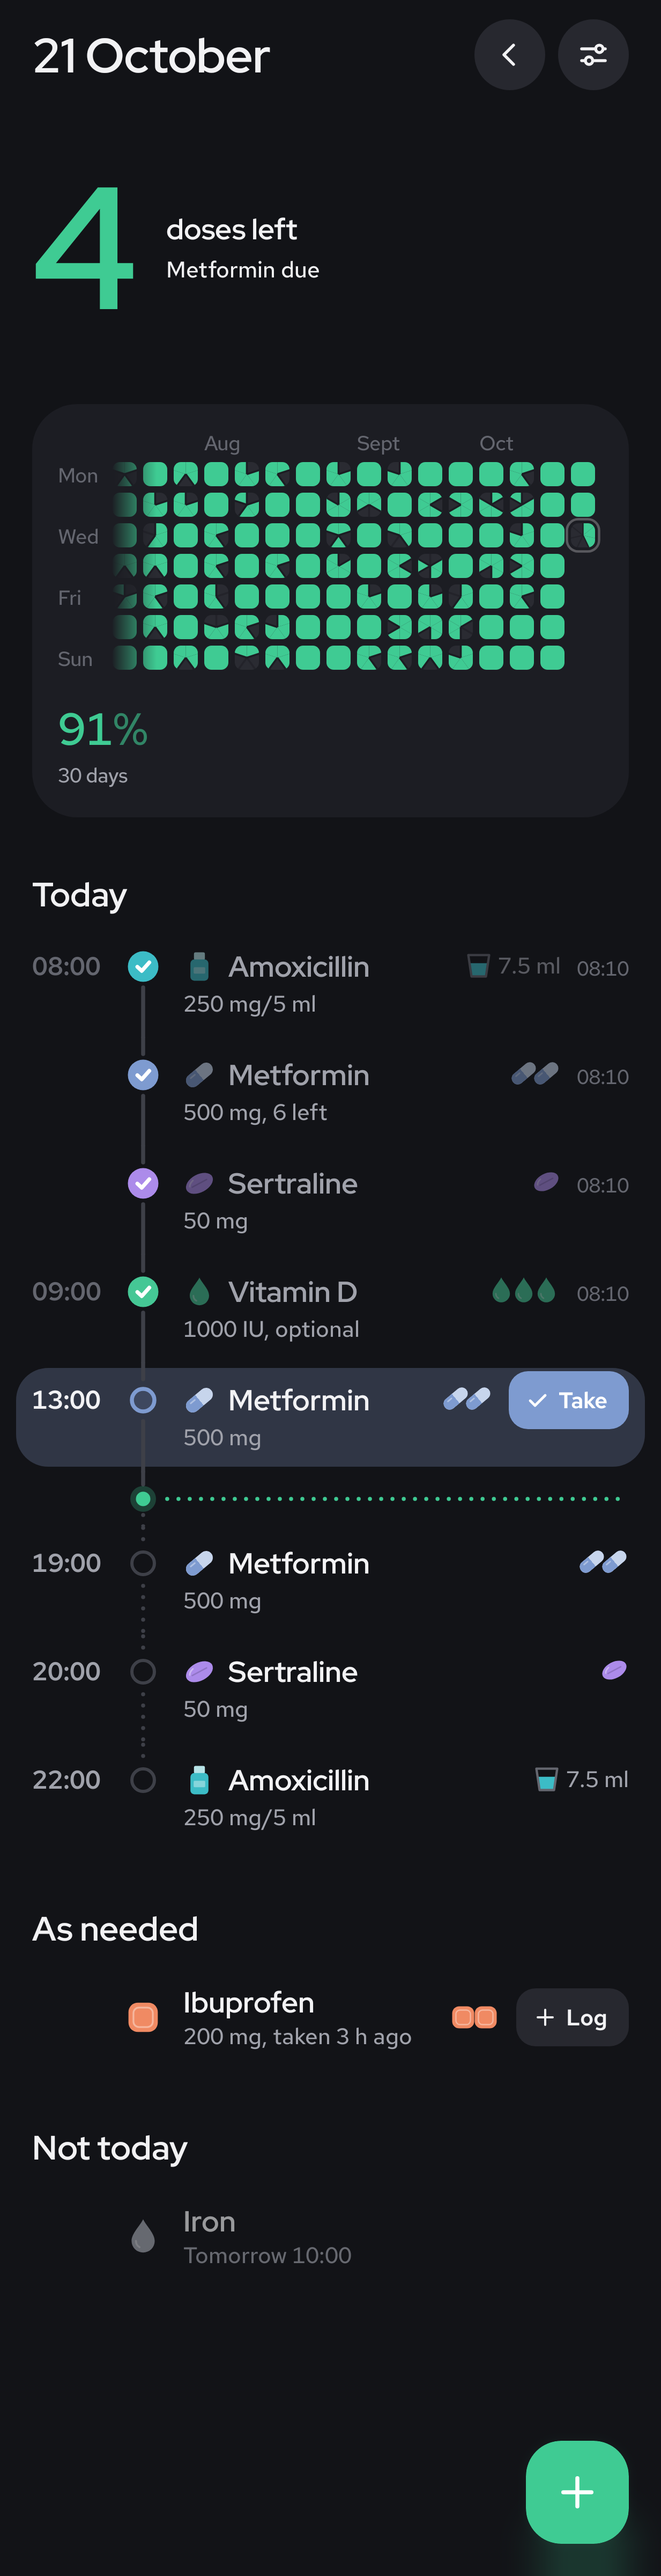
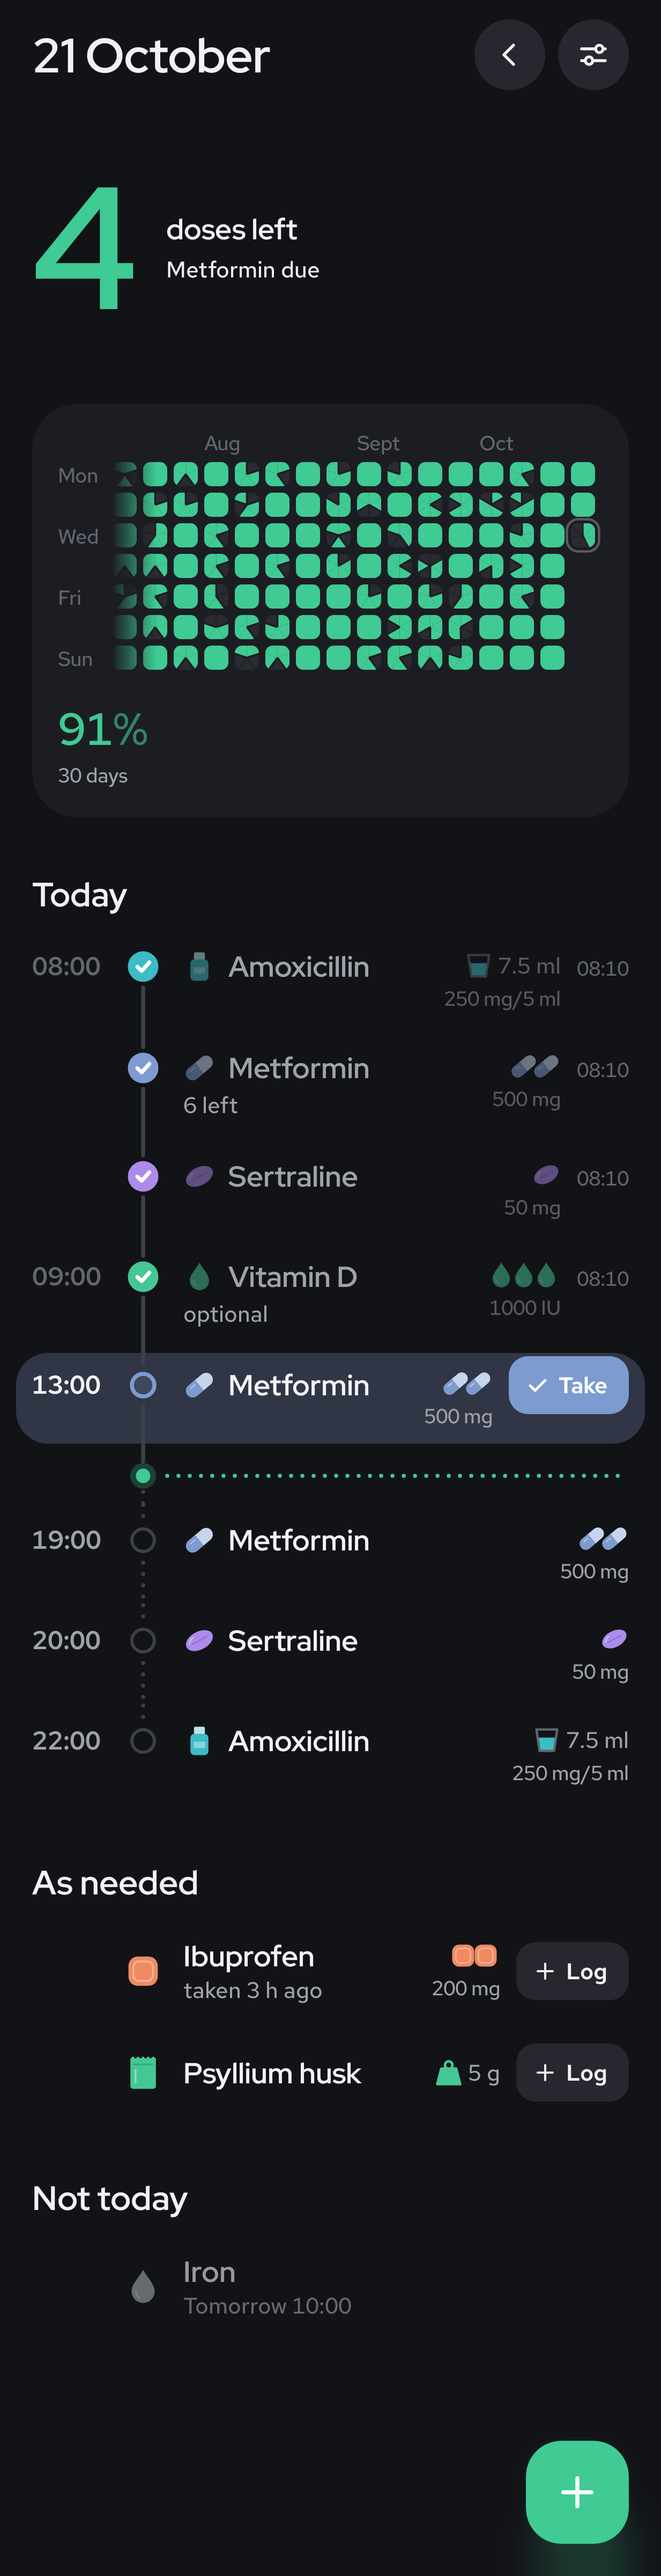
Move the strength to the right of the row; add a g unit
Nothing about the dose sits under the name any more: the strength now
goes under the dose graphic on the right, in today's rows and as-needed
rows alike. Doses can also be weighed in grams, drawn as a weight with
the amount.

Claude-Session: https://claude.ai/code/session_01CAP7gS8G12gnffMeDPHrX2

diff --git a/app/src/main/java/io/github/sammeeeeeeee/p1ll/ui/components/DoseMark.kt b/app/src/main/java/io/github/sammeeeeeeee/p1ll/ui/components/DoseMark.kt
@@ -1,10 +1,13 @@
 package io.github.sammeeeeeeee.p1ll.ui.components
 
 import androidx.compose.foundation.Canvas
+import androidx.compose.foundation.layout.Column
 import androidx.compose.foundation.layout.Row
 import androidx.compose.foundation.layout.Spacer
 import androidx.compose.foundation.layout.size
+import androidx.compose.foundation.layout.padding
 import androidx.compose.foundation.layout.width
+import androidx.compose.foundation.layout.widthIn
 import androidx.compose.material3.Text
 import androidx.compose.runtime.Composable
 import androidx.compose.ui.Alignment
@@ -21,6 +24,7 @@ import androidx.compose.ui.graphics.drawscope.clipRect
 import androidx.compose.ui.graphics.drawscope.inset
 import androidx.compose.ui.semantics.clearAndSetSemantics
 import androidx.compose.ui.semantics.contentDescription
+import androidx.compose.ui.text.style.TextOverflow
 import androidx.compose.ui.unit.dp
 import io.github.sammeeeeeeee.p1ll.data.DoseUnit
 import io.github.sammeeeeeeee.p1ll.data.PillShape
@@ -35,18 +39,43 @@ private val Step = 14.dp
 
 /**
  * One dose, drawn: a glyph per pill, drop, puff or patch, the last cut in half for a half. Liquids
- * get a part-filled cup (or the syringe) and the volume. More than four, or an odd fraction, is one
- * glyph and a count.
+ * get a part-filled cup (or the syringe) and the volume, weights a weight and the grams. More than
+ * four, or an odd fraction, is one glyph and a count. The [strength] sits under it, right-aligned,
+ * so everything about the dose stays on the right of the row.
  */
 @Composable
-fun DoseMark(amount: Double, unit: DoseUnit, shape: PillShape, color: Color, modifier: Modifier = Modifier) {
+fun DoseMark(amount: Double, unit: DoseUnit, shape: PillShape, color: Color, modifier: Modifier = Modifier, strength: String = "") {
     val c = P1ll.colors
-    val described = Describe.amount(amount, unit, shape)
-    Row(modifier.clearAndSetSemantics { contentDescription = described }, verticalAlignment = Alignment.CenterVertically) {
-        if (unit == DoseUnit.ML) {
-            Canvas(Modifier.size(Each)) { if (shape == PillShape.SYRINGE) drawPillGlyph(shape, color) else drawCup(color, c.ink3) }
+    val described = listOf(Describe.amount(amount, unit, shape), strength.trim()).filter { it.isNotEmpty() }.joinToString(", ")
+    Column(modifier.clearAndSetSemantics { contentDescription = described }, horizontalAlignment = Alignment.End) {
+        Amount(amount, unit, shape, color)
+        if (strength.isNotBlank()) {
+            Text(
+                strength.trim(),
+                style = Type.small,
+                color = c.ink2,
+                maxLines = 1,
+                overflow = TextOverflow.Ellipsis,
+                modifier = Modifier.padding(top = 3.dp).widthIn(max = 96.dp),
+            )
+        }
+    }
+}
+
+@Composable
+private fun Amount(amount: Double, unit: DoseUnit, shape: PillShape, color: Color) {
+    val c = P1ll.colors
+    Row(verticalAlignment = Alignment.CenterVertically) {
+        if (unit != DoseUnit.COUNT) {
+            Canvas(Modifier.size(Each)) {
+                when {
+                    unit == DoseUnit.G -> drawWeight(color)
+                    shape == PillShape.SYRINGE -> drawPillGlyph(shape, color)
+                    else -> drawCup(color, c.ink3)
+                }
+            }
             Spacer(Modifier.width(3.dp))
-            Text("${Fmt.amount(amount)} ml", style = Type.label, color = c.ink2, maxLines = 1)
+            Text(Describe.amount(amount, unit, shape), style = Type.label, color = c.ink2, maxLines = 1)
             return@Row
         }
         val halves = amount * 2
@@ -86,6 +115,24 @@ private fun DrawScope.drawPuff(color: Color) {
     drawCircle(color, s * 0.26f, Offset(c.x + s * 0.02f, c.y - s * 0.06f))
     drawCircle(color, s * 0.18f, Offset(c.x + s * 0.24f, c.y + s * 0.12f))
     drawRect(color, Offset(c.x - s * 0.2f, c.y + s * 0.1f), Size(s * 0.44f, s * 0.2f))
+}
+
+/** A weight: a squat trapezoid with a loop on top. */
+private fun DrawScope.drawWeight(color: Color) {
+    val s = size.minDimension
+    val cx = center.x
+    val top = s * 0.36f
+    val bottom = s * 0.9f
+    drawCircle(color, s * 0.13f, Offset(cx, s * 0.24f), style = Stroke(s * 0.09f))
+    val body = Path().apply {
+        moveTo(cx - s * 0.26f, top)
+        lineTo(cx + s * 0.26f, top)
+        lineTo(cx + s * 0.4f, bottom)
+        lineTo(cx - s * 0.4f, bottom)
+        close()
+    }
+    drawPath(body, color)
+    drawPath(body, color, style = Stroke(s * 0.08f, join = StrokeJoin.Round))
 }
 
 /** A dosing cup, outlined, with liquid most of the way up. */

diff --git a/app/src/main/java/io/github/sammeeeeeeee/p1ll/ui/home/Timeline.kt b/app/src/main/java/io/github/sammeeeeeeee/p1ll/ui/home/Timeline.kt
@@ -266,7 +266,8 @@ fun DoseRowView(
                 pill.unit,
                 pill.shape,
                 color,
-                Modifier.padding(top = 13.dp).graphicsLayer { alpha = glyphAlpha },
+                Modifier.padding(top = 13.dp, bottom = 12.dp).graphicsLayer { alpha = glyphAlpha },
+                strength = pill.strength,
             )
             Box(Modifier.heightIn(min = 46.dp).padding(top = 5.dp), contentAlignment = Alignment.TopEnd) {
                 val trailing: Trailing? = when {
@@ -315,7 +316,6 @@ private sealed interface Trailing {
 @Composable
 private fun meta(pill: Pill, showStock: Boolean): String {
     val parts = mutableListOf<String>()
-    if (pill.strength.isNotBlank()) parts += pill.strength.trim()
     if (pill.optional) parts += "optional"
     val stock = pill.stock
     if (showStock && stock != null && pill.refillAt != null && stock <= pill.refillAt) parts += "${Fmt.amount(stock)} left"
@@ -514,13 +514,12 @@ fun QuietRow(
                         card.takenToday == 1 -> "taken $last"
                         else -> "${card.takenToday} taken, last $last"
                     }
-                    listOfNotNull(pill.strength.takeIf { it.isNotBlank() }, taken).joinToString(", ")
+                    taken.orEmpty()
                 }
                 onLog != null -> {
                     val last = card.lastTakenAt
                     val lastText = last?.let { "taken ${Fmt.ago((now.toInstant().toEpochMilli() - it) / 60_000)}" }
-                    listOfNotNull(pill.strength.takeIf { it.isNotBlank() }, lastText, if (card.takenToday > 1) "${card.takenToday} today" else null)
-                        .joinToString(", ")
+                    listOfNotNull(lastText, if (card.takenToday > 1) "${card.takenToday} today" else null).joinToString(", ")
                 }
                 else -> card.next?.let { Describe.whenNext(context, it, now).replaceFirstChar(Char::titlecase) } ?: Describe.schedule(pill)
             }
@@ -528,7 +527,7 @@ fun QuietRow(
         }
         if (onLog != null) {
             Spacer(Modifier.width(8.dp))
-            DoseMark(pill.amount, pill.unit, pill.shape, color)
+            DoseMark(pill.amount, pill.unit, pill.shape, color, strength = pill.strength)
             Spacer(Modifier.width(10.dp))
             var logged by remember { mutableIntStateOf(0) }
             LaunchedEffect(logged) {

diff --git a/app/src/main/java/io/github/sammeeeeeeee/p1ll/ui/editor/EditorScreen.kt b/app/src/main/java/io/github/sammeeeeeeee/p1ll/ui/editor/EditorScreen.kt
@@ -131,7 +131,7 @@ class EditorState(private val base: Pill?, today: Long, usedColors: Set<Int>) {
             (schedule == ScheduleType.AS_NEEDED || times.isNotEmpty()) &&
             (schedule != ScheduleType.WEEKDAYS || weekdays != 0)
 
-    /** Volumes and counts don't convert, so switching starts from a typical dose. */
+    /** Counts, volumes and weights don't convert, so switching starts from a typical dose. */
     fun pickUnit(next: DoseUnit) {
         if (next == unit) return
         amount = if (next == DoseUnit.ML) "5" else "1"
@@ -487,11 +487,11 @@ private fun decimalText(raw: String): String {
     return (if (point < 0) t else t.substring(0, point + 1) + t.substring(point + 1).replace(".", "")).take(6)
 }
 
-/** "Pills", "Puffs", "ml": a count is named after the form. */
+/** "Pills", "Puffs", "ml", "g": a count is named after the form. */
 private fun unitTitle(unit: DoseUnit, shape: PillShape) =
-    if (unit == DoseUnit.ML) "ml" else Describe.unit(unit, shape).replaceFirstChar(Char::titlecase)
+    if (unit == DoseUnit.COUNT) Describe.unit(unit, shape).replaceFirstChar(Char::titlecase) else Describe.unit(unit, shape)
 
-/** Halves for pills, 2.5 ml for liquids, whole drops, puffs and the rest. The number can also be typed. */
+/** Halves for pills and grams, 2.5 ml for liquids, whole drops, puffs and the rest. The number can also be typed. */
 @Composable
 private fun AmountStepper(text: String, onChange: (String) -> Unit, unit: DoseUnit, shape: PillShape) {
     val c = P1ll.colors
@@ -499,7 +499,7 @@ private fun AmountStepper(text: String, onChange: (String) -> Unit, unit: DoseUn
     val pill = shape in setOf(PillShape.ROUND, PillShape.CAPSULE, PillShape.OVAL, PillShape.TABLET)
     val step = when {
         unit == DoseUnit.ML -> 2.5
-        pill -> 0.5
+        unit == DoseUnit.G || pill -> 0.5
         else -> 1.0
     }
     val min = if (unit == DoseUnit.ML) 0.5 else step

diff --git a/app/src/test/java/io/github/sammeeeeeeee/p1ll/ScreenshotTest.kt b/app/src/test/java/io/github/sammeeeeeeee/p1ll/ScreenshotTest.kt
@@ -57,6 +57,7 @@ class ScreenshotTest {
             Pill(4, "Ibuprofen", "200 mg", color = 0, shape = PillShape.TABLET, schedule = ScheduleType.AS_NEEDED, times = emptyList(), startDay = today - 300, amount = 2.0, createdAt = created),
             Pill(5, "Amoxicillin", "250 mg/5 ml", color = 3, shape = PillShape.BOTTLE, times = listOf(480, 1320), startDay = today - 3, endDay = today + 4, amount = 7.5, unit = DoseUnit.ML, createdAt = created),
             Pill(6, "Iron", "", color = 7, shape = PillShape.DROP, schedule = ScheduleType.WEEKDAYS, weekdays = 0b0101010, times = listOf(600), startDay = today - 60, createdAt = created),
+            Pill(7, "Psyllium husk", "", color = 2, shape = PillShape.SACHET, schedule = ScheduleType.AS_NEEDED, times = emptyList(), startDay = today - 30, amount = 5.0, unit = DoseUnit.G, createdAt = created),
         )
         val random = Random(4)
         var id = 1L

diff --git a/app/src/main/java/io/github/sammeeeeeeee/p1ll/ui/Describe.kt b/app/src/main/java/io/github/sammeeeeeeee/p1ll/ui/Describe.kt
@@ -42,11 +42,12 @@ object Describe {
         return listOf(amount(p.amount, p.unit, p.shape), p.strength.trim(), pattern).filter { it.isNotEmpty() }.joinToString(", ")
     }
 
-    /** "1 pill", "7.5 ml", "2 puffs". */
+    /** "1 pill", "7.5 ml", "5 g", "2 puffs". */
     fun amount(amount: Double, unit: DoseUnit, shape: PillShape): String = "${Fmt.amount(amount)} ${unit(unit, shape, amount)}"
 
     fun unit(unit: DoseUnit, shape: PillShape, amount: Double = 2.0): String {
         if (unit == DoseUnit.ML) return "ml"
+        if (unit == DoseUnit.G) return "g"
         val (one, many) = when (shape) {
             PillShape.ROUND, PillShape.CAPSULE, PillShape.OVAL, PillShape.TABLET -> "pill" to "pills"
             PillShape.DROP -> "drop" to "drops"

diff --git a/app/src/main/java/io/github/sammeeeeeeee/p1ll/ui/detail/DetailScreen.kt b/app/src/main/java/io/github/sammeeeeeeee/p1ll/ui/detail/DetailScreen.kt
@@ -233,9 +233,10 @@ fun DetailScreen(pillId: Long, snapshot: Snapshot, actions: DetailActions) {
     }
 }
 
-/** Common pack sizes: bottles in ml, inhalers and sprays in puffs, otherwise boxes. */
+/** Common pack sizes: bottles in ml, tubes and tubs in g, inhalers and sprays in puffs, otherwise boxes. */
 private fun refills(pill: Pill) = when {
     pill.unit == DoseUnit.ML -> listOf(100, 150, 200, 500)
+    pill.unit == DoseUnit.G -> listOf(15, 30, 50, 100)
     pill.shape == PillShape.INHALER || pill.shape == PillShape.SPRAY -> listOf(60, 120, 200)
     else -> listOf(14, 28, 30, 90)
 }

diff --git a/app/src/main/java/io/github/sammeeeeeeee/p1ll/data/Model.kt b/app/src/main/java/io/github/sammeeeeeeee/p1ll/data/Model.kt
@@ -14,7 +14,7 @@ enum class PillShape { ROUND, CAPSULE, OVAL, TABLET, DROP, SACHET, TUBE, BOTTLE,
 enum class DoseStatus { TAKEN, SKIPPED }
 
 /** What a dose is measured in. A count takes its noun from the form: pills, drops, puffs, patches. */
-enum class DoseUnit { COUNT, ML }
+enum class DoseUnit { COUNT, ML, G }
 
 @Entity(tableName = "pills")
 data class Pill(

diff --git a/README.md b/README.md
@@ -12,7 +12,7 @@ Pill tracker for Android. A year chart shows one square per day, split into one 
 
 - Schedules for every day, chosen weekdays, every N days, or as needed
 - Pills, powders, creams, liquids, sprays, inhalers, injections and patches, in 12 colours
-- Each dose as a count (half pills too) or in ml, drawn beside it on the day: two pills, three drops, a cup of 7.5 ml
+- Each dose as a count (half pills too), ml or g, drawn on the right of its row with the strength: two pills, three drops, 7.5 ml, 5 g
 - One reminder per dose that stays until you act on it: Take opens the app and ticks the dose off, Snooze turns it into a minimized silent copy, same details, that won't alert again
 - Optional repeats until a dose is taken or snoozed
 - End dates, with history kept
